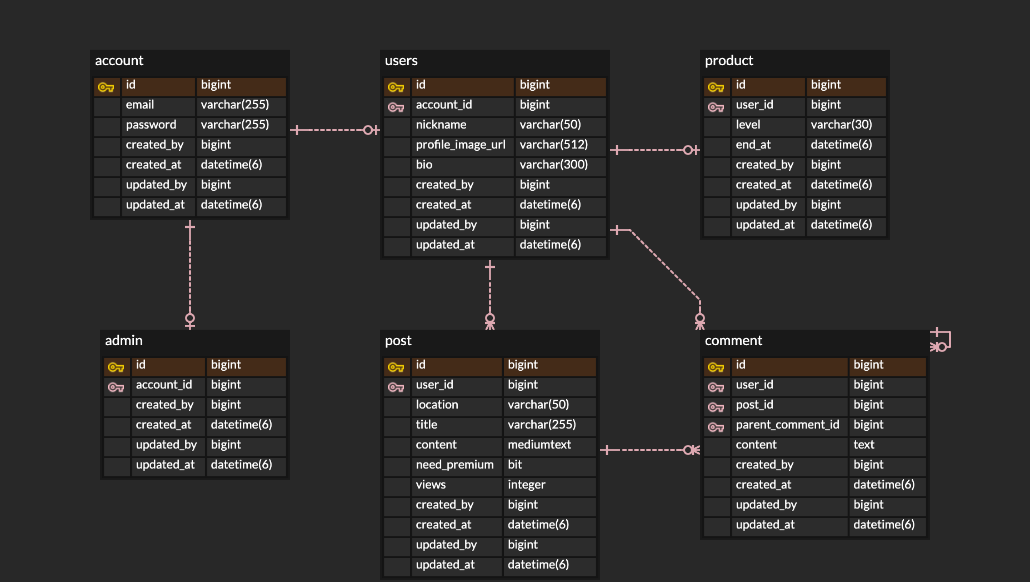
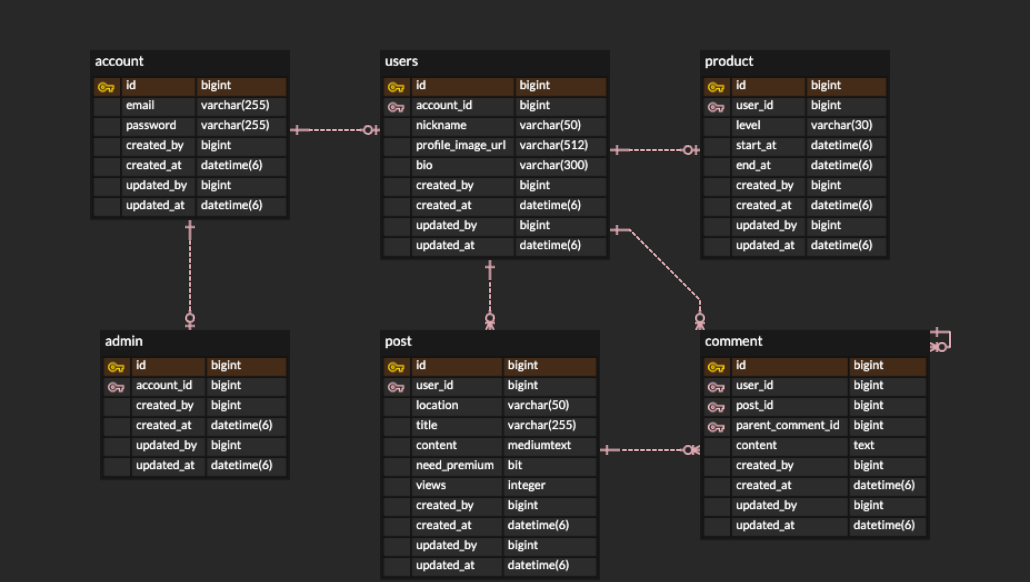
erd 변경

diff --git a/6주차.md b/6주차.md
@@ -13,7 +13,8 @@ create table account (
     created_at datetime(6),
     updated_by bigint,
     updated_at datetime(6),
-    primary key (id)
+    primary key (id),
+    unique key UK_account_email (email)
 ) engine=InnoDB;
 
 create table admin (
@@ -51,6 +52,7 @@ create table product (
     id bigint not null auto_increment,
     user_id bigint,
     level varchar(30),
+    start_at datetime(6),
     end_at datetime(6),
     created_by bigint,
     created_at datetime(6),
